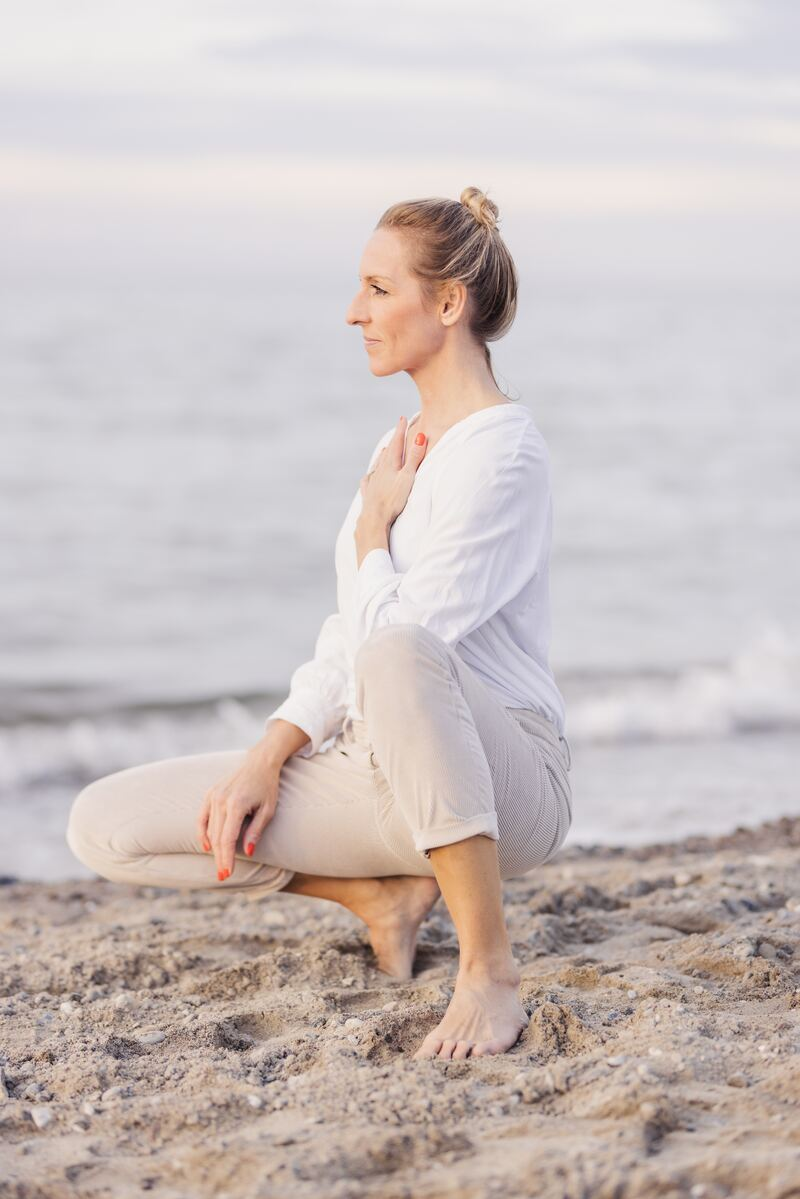
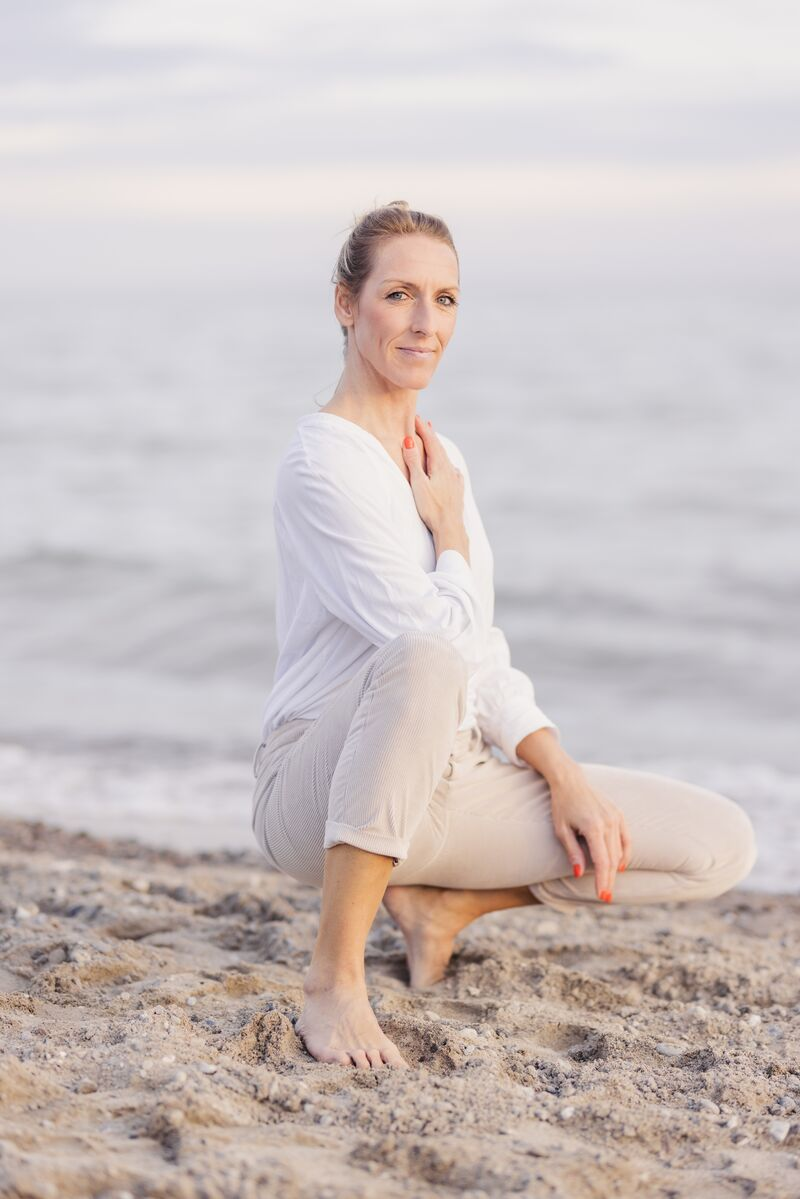
Haus mit Schlüssellöchern, Methode, neue Abende, neues Über-mich-Foto
Claude-Session: https://claude.ai/code/session_01SfG5N9yUsRKvqccQkPC1Yx

diff --git a/index.html b/index.html
@@ -31,7 +31,7 @@
 <header class="topbar">
   <div class="wrap topbar__inner">
     <span class="brand">Rücken<span class="brand__accent">bewusst</span>SEIN</span>
-    <a class="topbar__cta" href="#anmeldung" data-cta="header">Kostenfrei dabei sein</a>
+    <a class="topbar__cta" href="#anmeldung" data-cta="header"><span class="hide-s">Kostenfrei </span>dabei sein</a>
   </div>
 </header>
 
@@ -112,31 +112,29 @@
     </div>
     <div class="wrap">
       <figure class="house reveal">
-        <svg viewBox="0 0 520 480" role="img" aria-labelledby="house-title">
-          <title id="house-title">Ein Haus mit sechs Räumen: Körper ist geöffnet. Gedanken, Gefühle, Energie, Lebenssituation und innere Ausrichtung sind noch verschlossen.</title>
-          <path class="house__outline" d="M14 152 L260 22 L506 152 M40 138 V462 H480 V138"/>
-          <line class="house__floor" x1="40" y1="300" x2="480" y2="300"/>
-          <!-- Obergeschoss -->
-          <g class="door door--closed" style="--d:1" transform="translate(82 166)"><path d="M0 84V28a28 28 0 0 1 56 0v56z"/><circle cx="44" cy="52" r="3.5"/></g>
-          <text class="door__label" style="--d:1" x="110" y="276">Gedanken</text>
-          <g class="door door--closed" style="--d:2" transform="translate(232 166)"><path d="M0 84V28a28 28 0 0 1 56 0v56z"/><circle cx="44" cy="52" r="3.5"/></g>
-          <text class="door__label" style="--d:2" x="260" y="276">Gefühle</text>
-          <g class="door door--closed" style="--d:3" transform="translate(382 166)"><path d="M0 84V28a28 28 0 0 1 56 0v56z"/><circle cx="44" cy="52" r="3.5"/></g>
-          <text class="door__label" style="--d:3" x="410" y="276">Energie</text>
-          <!-- Erdgeschoss -->
-          <g class="door door--open" style="--d:0" transform="translate(82 326)">
-            <path class="door__glow" d="M0 84V28a28 28 0 0 1 56 0v56z"/>
-            <path class="door__leaf" d="M0 84V28a28 28 0 0 1 18-26v92z"/>
+        <svg viewBox="0 0 640 470" role="img" aria-labelledby="house-title">
+          <title id="house-title">Ein Haus mit sieben Türen. Nur die Tür „Körper“ ist geöffnet, sechs weitere Türen sind noch verschlossen und haben ein Schlüsselloch.</title>
+          <path class="house__outline" d="M40 190 L320 30 L600 190 M80 168 V440 H560 V168"/>
+          <line class="house__floor" x1="80" y1="300" x2="560" y2="300"/>
+          <!-- Obergeschoss: 3 verschlossene Türen -->
+          <g class="door door--closed" style="--d:2" transform="translate(150 186)"><path d="M0 100V34a34 34 0 0 1 68 0v66z"/><path class="door__keyhole" d="M34 54a6 6 0 1 1-.01 0zM31 62h6l2.5 14h-11z"/></g>
+          <g class="door door--closed" style="--d:3" transform="translate(286 186)"><path d="M0 100V34a34 34 0 0 1 68 0v66z"/><path class="door__keyhole" d="M34 54a6 6 0 1 1-.01 0zM31 62h6l2.5 14h-11z"/></g>
+          <g class="door door--closed" style="--d:4" transform="translate(422 186)"><path d="M0 100V34a34 34 0 0 1 68 0v66z"/><path class="door__keyhole" d="M34 54a6 6 0 1 1-.01 0zM31 62h6l2.5 14h-11z"/></g>
+          <!-- Erdgeschoss: Körper offen + 3 verschlossene Türen -->
+          <g class="door door--open" style="--d:0" transform="translate(122 326)">
+            <path class="door__glow" d="M0 100V34a34 34 0 0 1 68 0v66z"/>
+            <path class="door__leaf" d="M0 100V34a34 34 0 0 1 22-32v108z"/>
           </g>
-          <text class="door__label door__label--open" style="--d:0" x="110" y="436">Körper</text>
-          <g class="door door--closed" style="--d:4" transform="translate(232 326)"><path d="M0 84V28a28 28 0 0 1 56 0v56z"/><circle cx="44" cy="52" r="3.5"/></g>
-          <text class="door__label" style="--d:4" x="260" y="436">Lebenssituation</text>
-          <g class="door door--closed" style="--d:5" transform="translate(382 326)"><path d="M0 84V28a28 28 0 0 1 56 0v56z"/><circle cx="44" cy="52" r="3.5"/></g>
-          <text class="door__label" style="--d:5" x="410" y="436"><tspan x="410">Innere</tspan><tspan x="410" dy="22">Ausrichtung</tspan></text>
+          <text class="door__label door__label--open" style="--d:0" x="156" y="462">KÖRPER</text>
+          <g class="door door--closed" style="--d:5" transform="translate(231 326)"><path d="M0 100V34a34 34 0 0 1 68 0v66z"/><path class="door__keyhole" d="M34 54a6 6 0 1 1-.01 0zM31 62h6l2.5 14h-11z"/></g>
+          <g class="door door--closed" style="--d:6" transform="translate(341 326)"><path d="M0 100V34a34 34 0 0 1 68 0v66z"/><path class="door__keyhole" d="M34 54a6 6 0 1 1-.01 0zM31 62h6l2.5 14h-11z"/></g>
+          <g class="door door--closed" style="--d:7" transform="translate(450 326)"><path d="M0 100V34a34 34 0 0 1 68 0v66z"/><path class="door__keyhole" d="M34 54a6 6 0 1 1-.01 0zM31 62h6l2.5 14h-11z"/></g>
         </svg>
       </figure>
     </div>
     <div class="wrap narrow center">
+      <p class="house__q">Doch was befindet sich hinter den anderen Türen?</p>
+      <p class="house__a">Dafür gibt es die 7 Schlüssel.</p>
       <p class="house__note">Das heißt nicht, dass dein Rücken „aus dem Kopf“ kommt. Es heißt: Wenn du verstehen willst, warum dein Rückenproblem immer wieder zum Thema wird, lohnt es sich, mehr als einen Raum zu betrachten.</p>
       <figure class="voice voice--onDark reveal">
         <blockquote>„Ich hätte nie gedacht, dass mein Rückenleiden auf mehreren Ebenen verwurzelt ist. […] Ich fühle mich aufrechter, klarer und so viel verbundener mit mir.“</blockquote>
@@ -161,9 +159,9 @@
         <svg viewBox="0 0 64 24" style="--k:5"><circle cx="10" cy="12" r="7"/><path d="M17 12h44M50 12v7M56 12v5"/></svg>
         <svg viewBox="0 0 64 24" style="--k:6"><circle cx="10" cy="12" r="7"/><path d="M17 12h44M50 12v7M56 12v5"/></svg>
       </div>
-      <p class="eyebrow">Mein Framework</p>
+      <p class="eyebrow">Meine Methode</p>
       <h2 class="display">Die 7 <span class="script">Schlüssel</span></h2>
-      <p>Aus über 25 Jahren Arbeit mit Körpern, Schmerz und Lebensgeschichten ist eine klare Struktur entstanden. Mit ihr betrachtest du dein persönliches Rückenproblem aus mehreren Perspektiven, Schritt für Schritt statt im Rätselraten.</p>
+      <p>Aus über 25 Jahren Arbeit mit Körpern, Schmerz und Lebensgeschichten ist eine klare Struktur entstanden. Mit ihr betrachtest du dein persönliches Rückenthema bewusst auf mehreren Ebenen. Schritt für Schritt, mit einem klaren Plan statt im Rätselraten.</p>
       <ol class="compass" aria-label="Die Logik der 7 Schlüssel">
         <li><strong>Woher?</strong><span>Was spielt bei dir hinein?</span></li>
         <li><strong>Wo?</strong><span>Auf welchen Ebenen zeigt es sich?</span></li>
@@ -181,21 +179,21 @@
       <ol class="journey">
         <li class="reveal">
           <p class="journey__day">Abend 1 · So, 25. Oktober</p>
-          <h3>Erkennen</h3>
+          <h3>Erkennen &amp; entschlüsseln</h3>
           <p class="journey__q">Warum kommt mein Rückenproblem immer wieder?</p>
-          <p>Du schaust auf deine bisherige Sichtweise und erkennst, wo du vielleicht nur einen Raum betrachtet hast.</p>
+          <p>Du erkennst: So, wie du bisher auf deinen Schmerz geschaut hast, kommst du möglicherweise nicht weiter. Und du beginnst, die Information hinter dem Schmerz zu entschlüsseln.</p>
         </li>
         <li class="reveal">
           <p class="journey__day">Abend 2 · Mo, 26. Oktober</p>
-          <h3>Verstehen</h3>
-          <p class="journey__q">Welche Zusammenhänge könnten dahinter liegen?</p>
-          <p>Du lernst die 7 Schlüssel kennen und erkennst, welche Räume bei dir eine Rolle spielen können.</p>
+          <h3>Bewusst verstehen</h3>
+          <p class="journey__q">Womit ist mein Rücken noch verbunden?</p>
+          <p>Du siehst: Es gibt mehrere Ebenen und Zusammenhänge, und dafür braucht es einen anderen Blick. Mit den 7 Schlüsseln verstehst du endlich, womit dein Rücken noch verbunden ist.</p>
         </li>
         <li class="reveal">
           <p class="journey__day">Abend 3 · Di, 27. Oktober</p>
-          <h3>Ausrichten</h3>
-          <p class="journey__q">Was brauche ich, damit aus Erkenntnis Veränderung werden kann?</p>
-          <p>Du gehst mit deinem persönlichen nächsten Schritt aus dem Kurs.</p>
+          <h3>Rücken ausrichten</h3>
+          <p class="journey__q">Wie setze ich das für mich um?</p>
+          <p>Du weißt jetzt, worum es bei dir geht. Jetzt brauchst du einen Weg, das für dich umzusetzen. Ich zeige dir, wie dieser Weg aussehen kann und wie ich dich dabei begleiten kann.</p>
         </li>
       </ol>
       <p class="accent-line">Jeder Abend baut auf dem vorherigen auf. Plane dir am besten alle drei ein. Das ist kein Abend mit ein paar netten Impulsen. Es ist der rote Faden, der dir vielleicht bisher gefehlt hat.</p>
@@ -214,25 +212,29 @@
   <section class="section" id="renee">
     <div class="wrap about">
       <figure class="about__image">
-        <img src="/assets/img/renee-portrait.jpg" alt="Renée sitzt am Strand, eine Hand auf dem Herzen, und blickt aufs Meer" width="800" height="1199" loading="lazy">
+        <img src="/assets/img/renee-portrait.jpg" alt="Renée hockt barfuß am Strand, eine Hand auf dem Herzen, und schaut dich an" width="800" height="1199" loading="lazy">
       </figure>
       <div class="about__text">
         <p class="eyebrow">Über mich</p>
         <h2>Warum ich anders auf deinen Rücken schaue</h2>
-        <p>Ich bin Renée Rubin, Expertin für Rücken<span class="brand__accent">bewusst</span>SEIN. Seit über 25 Jahren beschäftige ich mich mit Bewegung, Körper, Schmerz und Wohlbefinden.</p>
+        <p>Ich bin Renée Rubin, Expertin für Rücken<span class="brand__accent">bewusst</span>SEIN. Seit über 17 Jahren beschäftige ich mich mit Rückenthemen und ihrer Verbindung zum Leben.</p>
         <div class="combo">
           <div>
             <p class="combo__title">Ich komme vom Körper</p>
-            <p>Medizinische Trainingstherapie, Sporttherapie in der Reha, Anatomie, Yoga, Beckenboden</p>
+            <p>Medizinische Trainingstherapie, Sporttherapie in der Reha, Trainerin in Mutter-Kind-Kuren, Familienzentren und beim NDR</p>
           </div>
           <div>
             <p class="combo__title">Und ich kenne, was der Körper allein nicht erklärt</p>
-            <p>Atemarbeit, Coaching, Embodiment, Energiearbeit</p>
+            <p>Atemarbeit, Coaching, Embodiment, Energiearbeit, Emotional-Release-Mentorin, Multidimensional Causal Coach</p>
+          </div>
+          <div>
+            <p class="combo__title">Daraus habe ich entwickelt</p>
+            <p>Pionierin des Rückenheil Code (multidimensionale Codierungstechnik), Entwicklerin des DIMENSIONALEN Trainings, Mentorin der Community Rückenheldinnen</p>
           </div>
         </div>
         <p>In meiner Arbeit mit Frauen sehe ich immer wieder: Wer nur auf den Körper schaut, übersieht manchmal das Entscheidende. Wer nur auf Gedanken und Gefühle schaut, verliert den Körper aus dem Blick.</p>
         <p>Genau deshalb habe ich meinen multidimensionalen Ansatz entwickelt. Er verbindet beides, damit du dein Rückenproblem nicht nur bearbeitest, sondern verstehst.</p>
-        <p class="small">Als Coach im NDR (2019) · Studium in Bozen und London</p>
+        <p class="small">Studium in Bozen und London</p>
         <figure class="voice voice--small reveal">
           <blockquote>„Sie ist nicht nur eine Rückenexpertin, sondern auch eine tiefgehende Persönlichkeit.“</blockquote>
           <figcaption>Jennifer Z., Bauleiterin aus Zürich</figcaption>

diff --git a/assets/styles.css b/assets/styles.css
@@ -159,11 +159,13 @@ h2 { text-wrap: balance; }
 .house__outline { fill: none; stroke: rgba(255,255,255,.75); stroke-width: 2.5; stroke-linejoin: round; stroke-linecap: round; }
 .house__floor { stroke: rgba(255,255,255,.25); stroke-width: 1.5; }
 .door path, .door circle { fill: none; stroke: rgba(255,255,255,.75); stroke-width: 2; }
-.door--closed circle { fill: rgba(255,255,255,.75); stroke: none; }
+.door__keyhole { fill: var(--blau) !important; stroke: none !important; }
 .door__glow { fill: var(--blau) !important; stroke: #fff !important; filter: drop-shadow(0 0 18px rgba(143, 201, 203, .9)); }
 .door__leaf { fill: var(--petrol-deep) !important; stroke: #fff !important; }
-.door__label { fill: rgba(255,255,255,.78); font-family: var(--font-body); font-size: 20px; text-anchor: middle; }
+.door__label { fill: #fff; font-family: var(--font-body); font-size: 22px; font-weight: 700; letter-spacing: .2em; text-anchor: middle; }
 .door__label--open { fill: #fff; font-weight: 700; }
+.house__q { font-family: var(--font-head); font-size: clamp(1.6rem, 4.6vw, 2.3rem); line-height: 1.25; color: #fff !important; margin-bottom: .2em; }
+.house__a { font-family: var(--font-script); font-size: 2.6rem; line-height: 1.2; color: var(--blau) !important; margin-bottom: 1em; }
 .house__note { font-family: var(--font-head); font-style: italic; font-size: clamp(1.3rem, 3.8vw, 1.55rem); line-height: 1.4; color: #fff !important; }
 
 /* ---------- Keys ---------- */
@@ -199,7 +201,7 @@ h2 { text-wrap: balance; }
 .combo p { margin: 0; }
 .combo__title { font-weight: 700; color: var(--petrol-deep); margin-bottom: 4px !important; }
 .small { font-size: .9rem; color: var(--muted); }
-@media (min-width: 600px) { .combo { grid-template-columns: 1fr 1fr; } }
+
 @media (min-width: 900px) { .about { grid-template-columns: .85fr 1.15fr; gap: 72px; } }
 
 /* ---------- Stimmen (einzeln platziert) ---------- */
@@ -310,3 +312,4 @@ h2 { text-wrap: balance; }
 .thanks__avatar { width: 96px; height: 96px; border-radius: 50%; object-fit: cover; margin: 0 auto 20px; border: 3px solid #fff; box-shadow: var(--shadow); }
 .thanks__btn { margin-top: 14px; }
 .thanks__facts { text-align: left; margin-bottom: 24px; }
+@media (max-width: 400px) { .hide-s { display: none; } }
